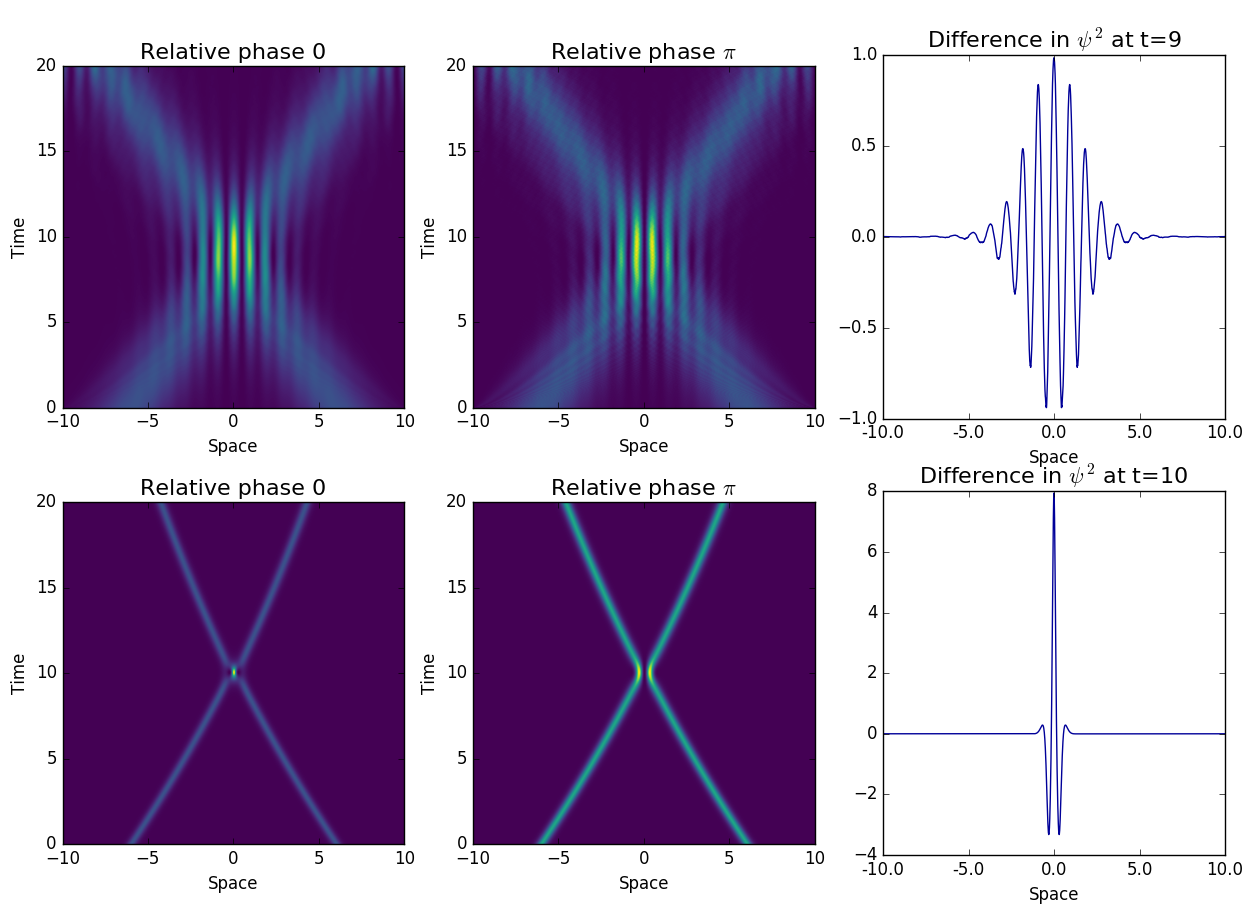
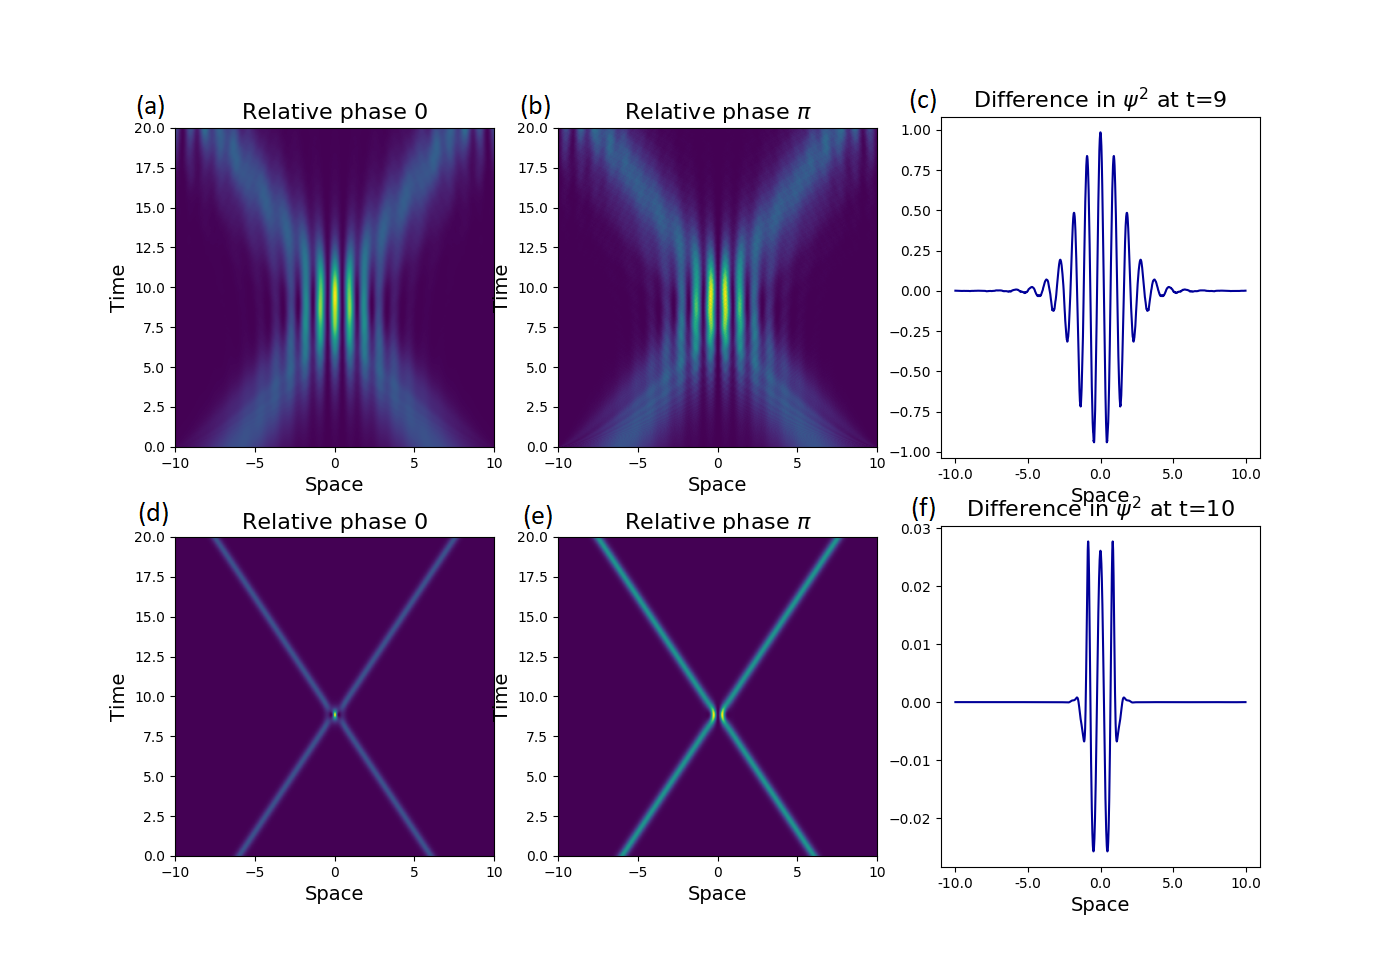
Switched subplots round to fit better in report

diff --git a/Code/extension-v3.py b/Code/extension-v3.py
@@ -97,49 +97,49 @@ difference2 = testpsi3 - testpsi4
 
 ########## PLOTS ############
 
-pyplot.figure(figsize=(15,10)) 
+pyplot.figure(figsize=(8,16)) #figsize=(14,10) 
 #pyplot.suptitle("The effect of inter-atom interactions " + r'$g |\psi|^2$' + " on a soliton model", fontsize=16)	
 
-pyplot.subplot(231)
+pyplot.subplot(321)
 pyplot.imshow(np.transpose(testpsi), extent=(-10,10,0,20), origin='lower', cmap='viridis') 
-pyplot.xlabel("Space", fontsize=12)
-pyplot.ylabel("Time", fontsize=12)
+pyplot.xlabel("Space", fontsize=14)
+pyplot.ylabel("Time", fontsize=14)
 pyplot.title("Relative phase {}".format(rel_phase1), fontsize=16)
 #pyplot.savefig('rel_phase_0.png')
  
-pyplot.subplot(232)
+pyplot.subplot(323)
 pyplot.imshow(np.transpose(testpsi2), extent=(-10,10,0,20), origin='lower', cmap='viridis') 
-pyplot.xlabel("Space", fontsize=12)
-pyplot.ylabel("Time", fontsize=12)
+pyplot.xlabel("Space", fontsize=14)
+pyplot.ylabel("Time", fontsize=14)
 pyplot.title("Relative phase " + r'$\pi$', fontsize=16)
 #pyplot.savefig('rel_phase_pi.png')
 
 #one minus the other to show where fringes are 
-pyplot.subplot(233)
+pyplot.subplot(325)
 pyplot.plot(difference1[:,900], color="#000099")
-pyplot.xlabel("Space", fontsize=12)
+pyplot.xlabel("Space", fontsize=14)
 pyplot.xticks(np.array([0,500,1000,1500,2000]),np.array([-10.0,-5.0,0.0,5.0,10.0]))
 pyplot.title("Difference in "  + r'$\psi^2$' + " at t=9", fontsize=16)
 #pyplot.savefig('difference.png')
 
-pyplot.subplot(234)
+pyplot.subplot(322)
 pyplot.imshow(np.transpose(testpsi3), extent=(-10,10,0,20), origin='lower', cmap='viridis') 
-pyplot.xlabel("Space", fontsize=12) 
-pyplot.ylabel("Time", fontsize=12)
+pyplot.xlabel("Space", fontsize=14) 
+pyplot.ylabel("Time", fontsize=14)
 pyplot.title("Relative phase {}".format(rel_phase1), fontsize=16)
 #pyplot.savefig('rel_phase_0.png')
  
-pyplot.subplot(235)
+pyplot.subplot(324)
 pyplot.imshow(np.transpose(testpsi4), extent=(-10,10,0,20), origin='lower', cmap='viridis') 
-pyplot.xlabel("Space", fontsize=12)
-pyplot.ylabel("Time", fontsize=12)
+pyplot.xlabel("Space", fontsize=14)
+pyplot.ylabel("Time", fontsize=14)
 pyplot.title("Relative phase " + r'$\pi$', fontsize=16)
 #pyplot.savefig('rel_phase_pi.png')
 
 #one minus the other to show where fringes are 
-pyplot.subplot(236)
+pyplot.subplot(326)
 pyplot.plot(difference2[:,1000], color="#000099")
-pyplot.xlabel("Space", fontsize=12)
+pyplot.xlabel("Space", fontsize=14)
 pyplot.xticks(np.array([0,500,1000,1500,2000]),np.array([-10.0,-5.0,0.0,5.0,10.0]))
 pyplot.title("Difference in "  + r'$\psi^2$' + " at t=10", fontsize=16)
 #pyplot.savefig('difference.png')
